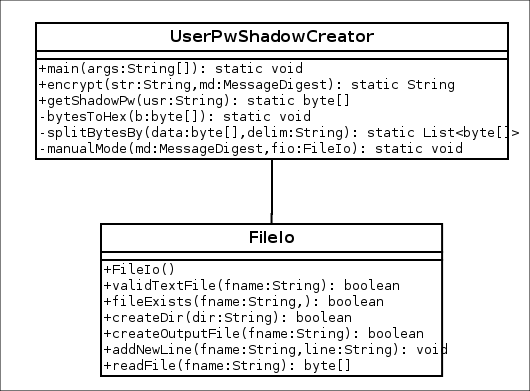
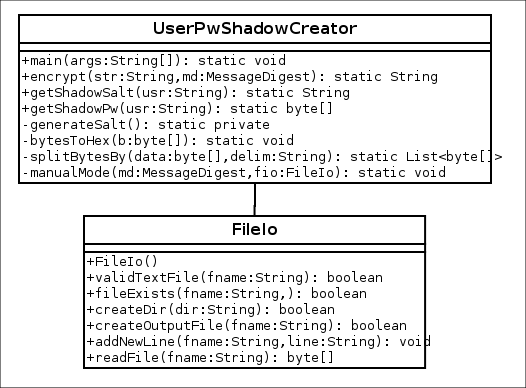
finished everything

Changed region(s): [[0.0304, 0.0309, 0.9734, 0.9897]]

diff --git a/UserPwShadowCreator.java b/UserPwShadowCreator.java
@@ -2,10 +2,11 @@
  * Program to generate a shadow pw file
  */
 import helper.FileIo;
-import java.security.MessageDigest;
+
 import java.io.*;
 import java.util.*;
 import java.security.SecureRandom;
+import java.security.MessageDigest;
 
 public class UserPwShadowCreator 
 {
@@ -13,20 +14,24 @@ public class UserPwShadowCreator
 	{
 		try
 		{
-			MessageDigest md = MessageDigest.getInstance("SHA-1");
-			FileIo fio = new FileIo();
+			System.out.println("Please choose one of the following options.");
+			System.out.println("  [0] Create a new shadow file from unhashed.txt");
+			System.out.println("  [1] Create a new shadow file and manually add users");
+			System.out.println("  [2] Add users from unhashed.txt to existing shadow.txt");
+			System.out.println("  [3] Add users, manually, to existing shadow.txt");
 
-			if(!fio.fileExists("shadow.txt"))
+			Console con = System.console();
+			String input = con.readLine("Choice: ");
+
+			FileIo fio = new FileIo();
+			if(input.equals("0") || input.equals("1"))
 				fio.createOutputFile("shadow.txt");
 
-			if(args.length == 1 && args[0].equals("addmanual"))
+			MessageDigest md = MessageDigest.getInstance("SHA-1");
+			if(input.equals("1") || input.equals("3"))
 				manualMode(md);
 			else
 			{
-				System.out.println("Please note this will delete the original shadow.txt and make a new one.");
-				if(args.length == 0 || args[1].equals("addfile"))
-					fio.createOutputFile("shadow.txt");
-
 				BufferedReader buf = new BufferedReader(new FileReader("unhashed.txt"));
 				String line = ""; // read in unhashed file and parse
 				while((line = buf.readLine()) != null)
